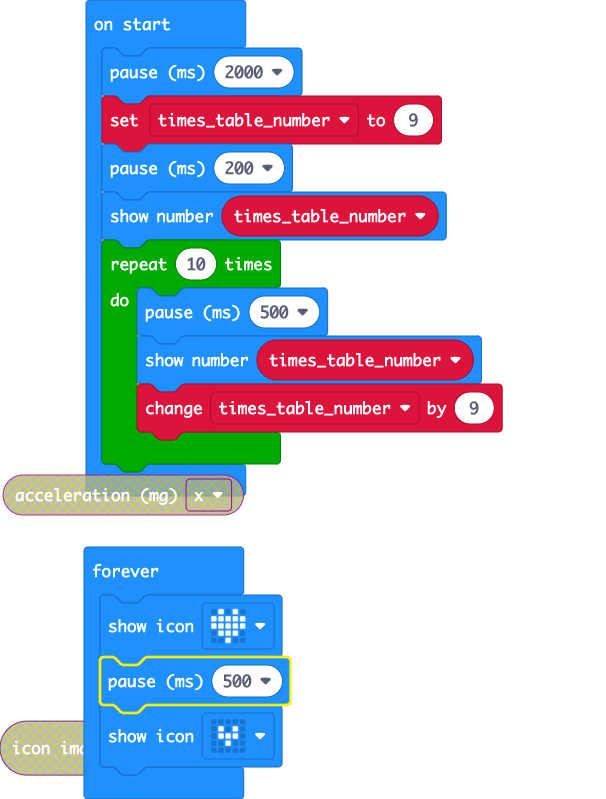
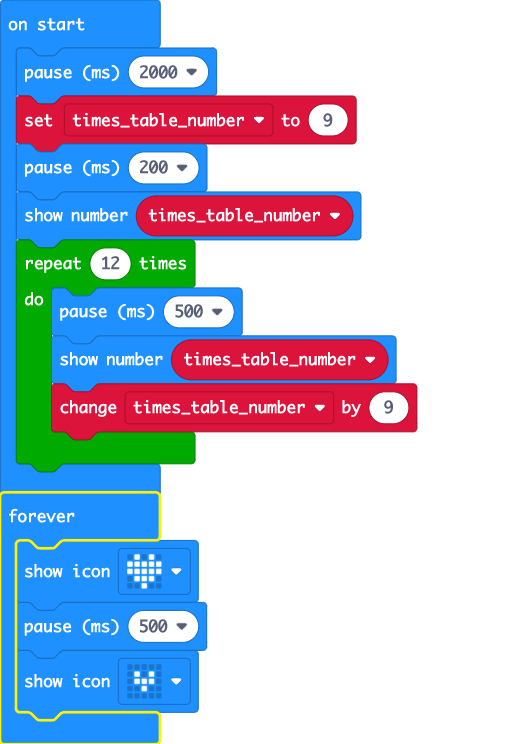
clean up

diff --git a/main.ts b/main.ts
@@ -2,7 +2,7 @@ basic.pause(2000)
 let times_table_number = 9
 basic.pause(200)
 basic.showNumber(times_table_number)
-for (let index = 0; index < 10; index++) {
+for (let index = 0; index < 12; index++) {
     basic.pause(500)
     basic.showNumber(times_table_number)
     times_table_number += 9
